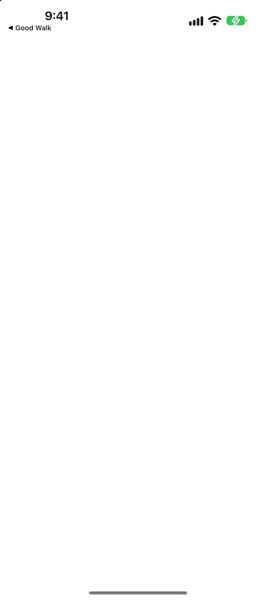
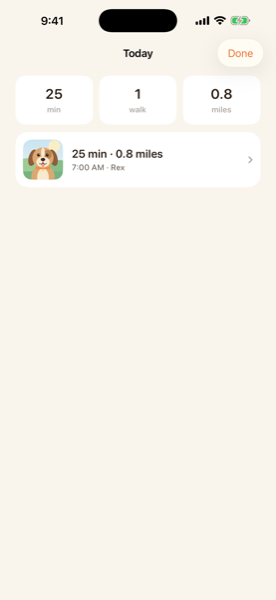
Site gallery: restore the thumbnails a local capture overwrote
The 23 Sep App Store capture regenerated docs/screenshots/small-*.png from a
run that caught the screen mid-launch: small-home, -hook, -result, -milestone,
-walkcard, -settings and -day came out blank white, small-share near black,
and small-walking, -stats, -dogs and -log show the iOS app switcher. Four of
them are in the homepage gallery, so getgoodwalk.app has been showing a blank
phone and two app-switcher shots since then.

Puts back the 22 Sep set from the Screenshots workflow (8c74453), which all
show the right screen, and fixes the walk-timer alt text to the 0.64 miles the
image shows. The full-size App Store PNGs are unchanged.

Claude-Session: https://claude.ai/code/session_01W1cPrsuSjG4ksPGREcMzzu

diff --git a/docs/index.html b/docs/index.html
@@ -361,7 +361,7 @@
     <ul class="shots">
       <li><figure><img src="screenshots/small-home.png" alt="Good Walk home screen: Rex&#x27;s photo inside a progress ring showing 25 of 60 minutes walked today, a 30-day streak and a Start a walk button" width="276" height="600" loading="lazy" decoding="async"><figcaption>Today's ring, around your dog</figcaption></figure></li>
       <li><figure><img src="screenshots/small-reveal.png" alt="Good Walk onboarding screen: a dog like Rex needs about 60 minutes a day as a general guideline, the typical dog gets about 23" width="276" height="600" loading="lazy" decoding="async"><figcaption>Your dog's daily target</figcaption></figure></li>
-      <li><figure><img src="screenshots/small-walking.png" alt="Good Walk walk timer at 18 minutes 29 seconds with 0.63 estimated miles and 43 of 60 minutes for today" width="276" height="600" loading="lazy" decoding="async"><figcaption>Walk timer with distance</figcaption></figure></li>
+      <li><figure><img src="screenshots/small-walking.png" alt="Good Walk walk timer at 18 minutes 29 seconds with 0.64 estimated miles and 43 of 60 minutes for today" width="276" height="600" loading="lazy" decoding="async"><figcaption>Walk timer with distance</figcaption></figure></li>
       <li><figure><img src="screenshots/small-stats.png" alt="Good Walk stats screen: 30 walks with Rex, a 30-day streak, a 30-day longest streak, and a September calendar with a filled dot on every day that met the target" width="276" height="600" loading="lazy" decoding="async"><figcaption>Every walk, every month</figcaption></figure></li>
       <li><figure><img src="screenshots/small-milestone.png" alt="Good Walk milestone card: 7 days in a row with Rex, 47 miles so far, with a Share the card button" width="276" height="600" loading="lazy" decoding="async"><figcaption>A card at every milestone</figcaption></figure></li>
     </ul>
